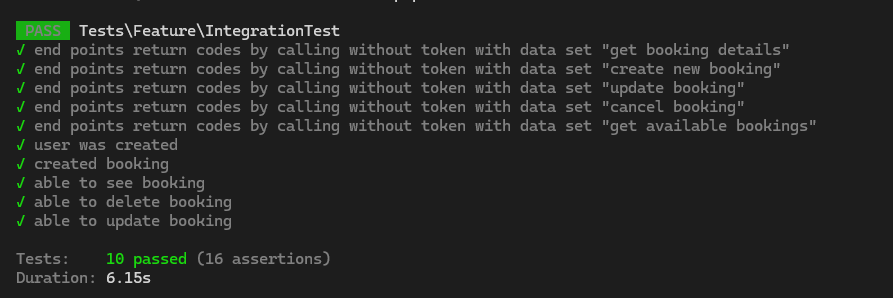
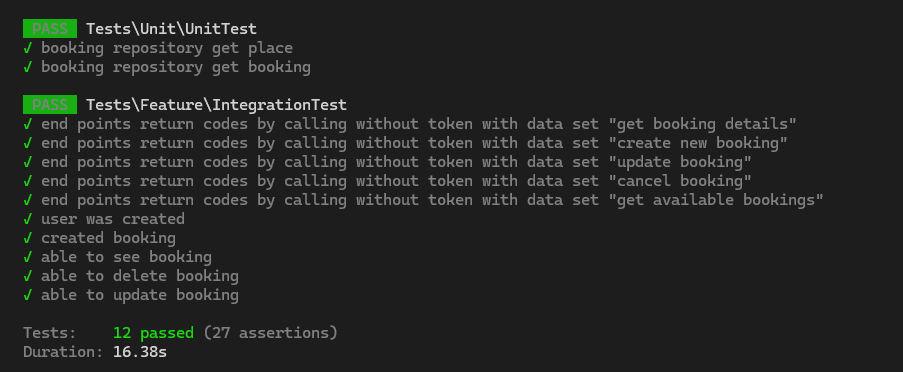
Add couple unit tests

Changed region(s): [[0.0, 0.0302, 0.9071, 0.8154], [0.0, 0.8456, 0.3931, 0.9664]]

diff --git a/tests/Unit/UnitTest.php b/tests/Unit/UnitTest.php
@@ -2,15 +2,76 @@
 
 namespace Tests\Unit;
 
-use PHPUnit\Framework\TestCase;
+use App\Models\Booking;
+use App\Models\Place;
+use App\Models\Price;
+use App\Models\User;
+use App\Repositories\BookingRepository;
+use Carbon\Carbon;
+use Illuminate\Http\Request;
+use Tests\TestCase;
 
 class UnitTest extends TestCase
 {
-    /**
-     * A basic test example.
-     */
-    public function test_that_true_is_true(): void
+    private $carbon;
+    private $price;
+    private $place;
+    private $booking;
+    private $repository;
+
+    public function setUp(): void
     {
-        $this->assertTrue(true);
+        parent::setUp();
+
+        $this->carbon = new Carbon();
+        $this->price = \Mockery::mock('alias:' . Price::class);
+        $this->place = \Mockery::mock('alias:' . Place::class);
+        $this->booking = \Mockery::mock('alias:' . Booking::class);
+
+        $this->repository = new BookingRepository(
+            $this->carbon,
+            $this->price,
+            $this->place,
+            $this->booking
+        );
+    }
+
+    /**
+     * @runInSeparateProcess
+     * @preserveGlobalState disabled
+     */
+    public function testBookingRepositoryGetPlace(): void
+    {
+        $request = Request::create('/', 'GET');
+
+        $this->place->shouldReceive('with')->with(\Mockery::on(function ($argument) {
+            return is_array($argument) && !empty($argument['bookings']);
+        }))->once()->andReturnSelf();
+
+        $this->place->shouldReceive('get')->once()->andReturnSelf();
+        $this->place->shouldReceive('first')->once()->andReturnSelf();
+        $this->place->shouldReceive('toArray')->once()->andReturn([]);
+
+        $this->assertIsArray($this->repository->getPlace($request));
+    }
+
+    /**
+     * @runInSeparateProcess
+     * @preserveGlobalState disabled
+     */
+    public function testBookingRepositoryGetBooking()
+    {
+        $user = User::factory()->create();
+        $this->actingAs($user);
+
+        $this->booking->shouldReceive('where')->once()->with('user_id', $user->id)->andReturnSelf();
+        $this->booking->shouldReceive('where')->with(\Mockery::on(function ($argument) {
+            return is_callable($argument);
+        }))->once()->andReturnSelf();
+        $this->booking->shouldReceive('with')->with(['place'])->once()->andReturnSelf();
+        $this->booking->shouldReceive('get')->once()->andReturnSelf();
+        $this->booking->shouldReceive('first')->once()->andReturn('returnParameter');
+
+        $this->assertEquals('returnParameter', $this->repository->getBooking());
     }
 }

diff --git a/app/Repositories/BookingRepository.php b/app/Repositories/BookingRepository.php
@@ -91,7 +91,7 @@ class BookingRepository implements BookingRepositoryInterface
         })->with(['place'])->get()->first();
     }
 
-    private function getPlace(Request $request): array
+    public function getPlace(Request $request): array
     {
         $place = $this->place::with(['bookings' => function ($q) use ($request) {
             $q->whereNotBetween('start_at', [$request->start_at, $request->end_at])
